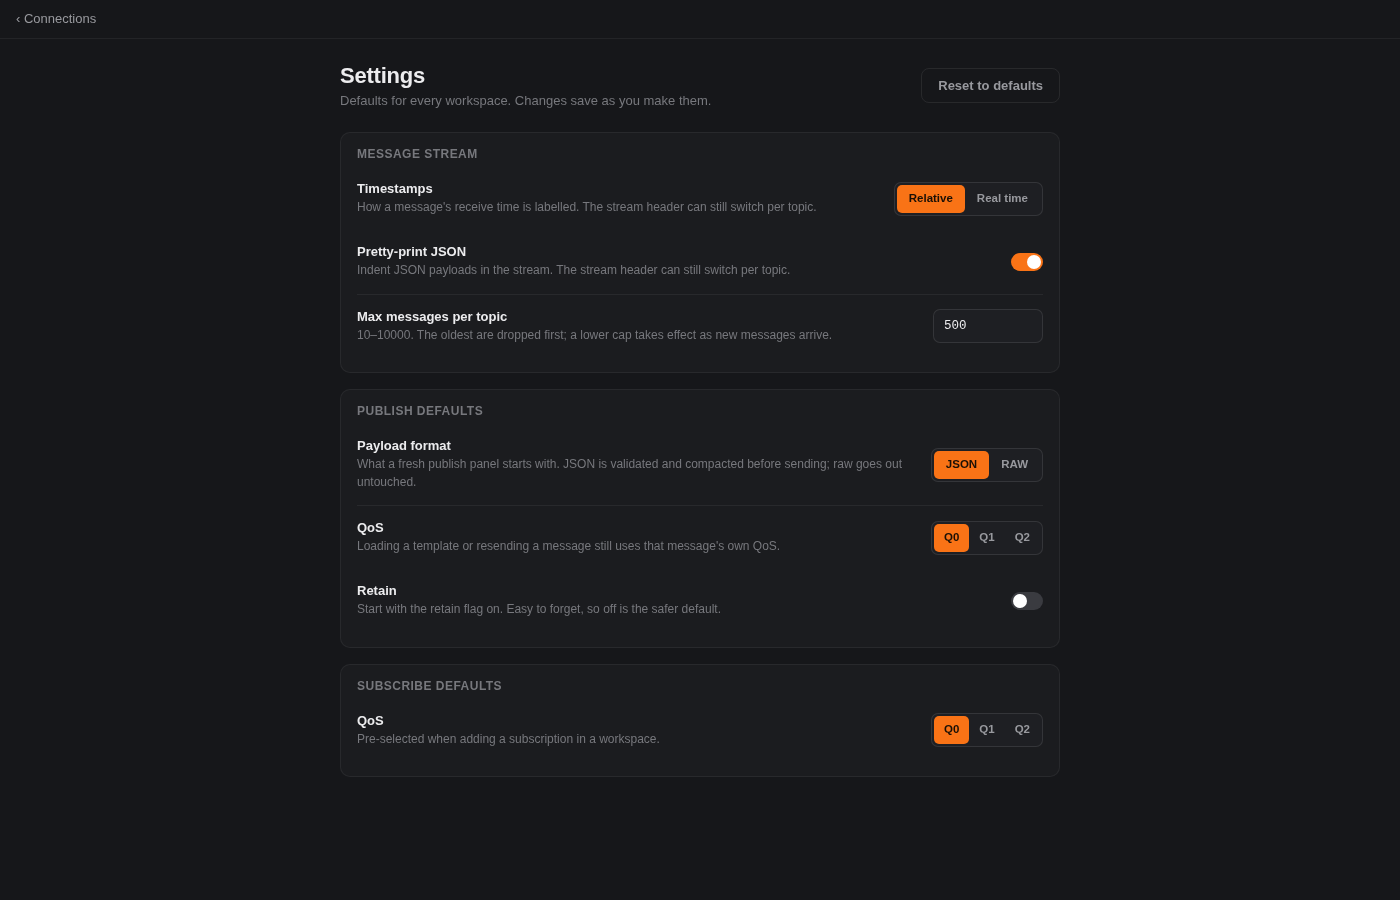
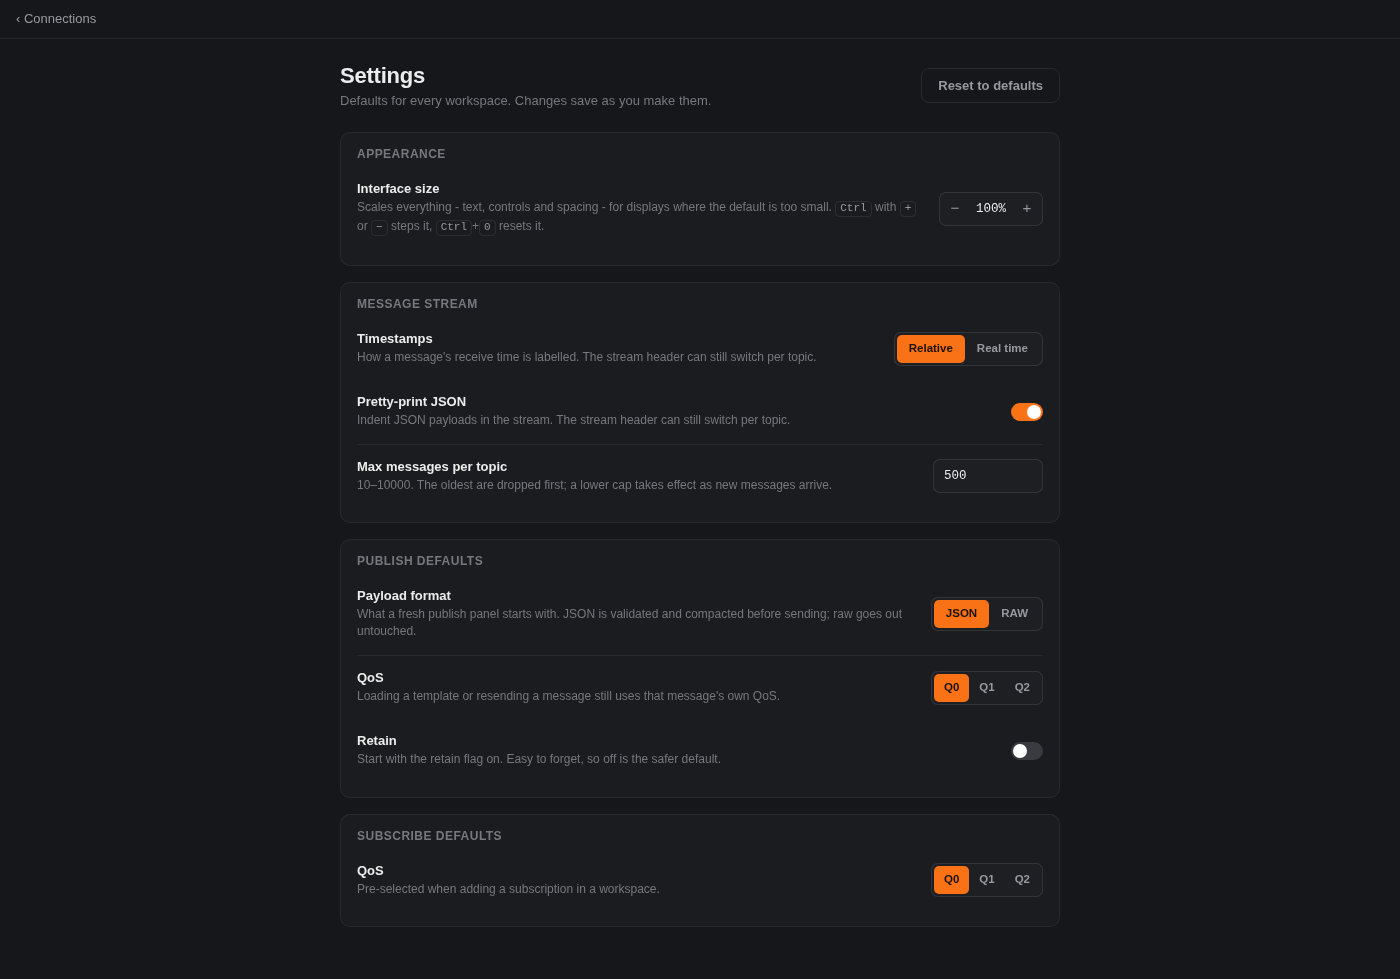
added docs

diff --git a/docs/architecture/frontend.md b/docs/architecture/frontend.md
@@ -58,8 +58,8 @@ Two consequences worth knowing before touching either side:
 
 Providers: `provideRouter`, `provideBrowserGlobalErrorListeners`,
 `GlobalErrorHandler` as the `ErrorHandler`, and an app initializer that
-instantiates `HeartbeatService` and `UpdateNotifierService` and kicks off
-`SettingsService.load()` without awaiting it. It must stay
+instantiates `HeartbeatService`, `UpdateNotifierService` and `UiZoomService`
+and kicks off `SettingsService.load()` without awaiting it. It must stay
 **`void`-returning**: `provideAppInitializer` waits on any promise handed
 back to it, which would put a network call (or a database read) in front of
 the first paint. Consumers run on the default settings until the load lands
@@ -96,6 +96,7 @@ Rust type and you must change its mirror here. `stored-message` and
 | `json-format.service` | Pretty-print, compact, and tokenize JSON for the payload editor's highlighting |
 | `variables.service` | CRUD over the `{{name}}` variable definitions, plus a loaded-once signal cache. The cache is the point: the publish panel validates and previews on every keystroke, which an `invoke()` per keystroke can't serve. The expansion logic itself is in the plain functions under `core/variables/` |
 | `settings.service` | The app-level settings as a signal read model over the backend's `app_settings` key/value store, loaded once at startup. The schema — keys, defaults, bounds, encoding — is the plain `core/settings/app-settings.ts`; the backend never interprets the values. Writes are optimistic so a change on the settings page re-seeds every consumer immediately |
+| `ui-zoom.service` | Holds the webview's zoom in step with the `ui.zoom` setting, and steps it for the Ctrl+`+`/`-`/`0` shortcuts. See below |
 | `logger.service` | Forwards to the Rust log file via `@tauri-apps/plugin-log` |
 | `update.service` | `invoke()` wrapper over `get_app_version` / `check_for_updates` / `skip_update_version` |
 | `update-notifier.service` | App-wide update state, and the one throttled check per launch. Its policy — silent vs. up-to-date vs. offer — lives in the plain `update-announcement.ts` next to it |
@@ -103,6 +104,25 @@ Rust type and you must change its mirror here. `stored-message` and
 
 Services are `providedIn: "root"` and injected with `inject()`, not
 constructor params.
+
+### `ui-zoom.service` — why zoom rather than a font size
+
+"Interface size" is the webview's own zoom (`setZoom`, the
+`core:webview:allow-set-webview-zoom` permission), not a CSS font scale.
+
+The workspace's geometry is not purely CSS: `DOCK_LIMITS`, `SPLITTER_PX` and
+`MIN_CENTRE_WIDTH` in `pages/broker-workspace/layout/dock-layout.ts` are
+JavaScript numbers, and the message stream measures and caches row heights to
+virtualise the list. Scaling only fonts would leave all of that at its
+original size — bigger text in unchanged docks, and mis-measured rows.
+Webview zoom scales the CSS pixel itself, so every one of those numbers keeps
+its meaning and the interface grows as one piece.
+
+The levels, the stepping and the snapping live in the plain
+`core/settings/zoom-levels.ts`; the keypress mapping in
+`core/settings/zoom-shortcut.ts`, bound once on `AppComponent` because zoom
+is app-wide. Applying it can fail — there is no webview in the demo build's
+plain browser — so the service logs and carries on rather than surfacing it.
 
 ### `message-store.service` — worth reading before touching the workspace
 

diff --git a/README.md b/README.md
@@ -65,9 +65,9 @@ It's built with [Tauri](https://tauri.app) (a Rust backend, SQLite for local sto
 </p>
 
 <p align="center">
-  <img src="docs/screenshots/settings.png" width="820" alt="Settings page with three groups: Message stream (a Relative / Real time timestamp selector, a pretty-print JSON switch and a max-messages-per-topic field), Publish defaults (JSON / RAW format, a Q0 / Q1 / Q2 QoS selector and a retain switch) and Subscribe defaults (QoS), plus a Reset to defaults button in the header">
+  <img src="docs/screenshots/settings.png" width="820" alt="Settings page with four groups: Appearance (an Interface size stepper showing 100%), Message stream (a Relative / Real time timestamp selector, a pretty-print JSON switch and a max-messages-per-topic field), Publish defaults (JSON / RAW format, a Q0 / Q1 / Q2 QoS selector and a retain switch) and Subscribe defaults (QoS), plus a Reset to defaults button in the header">
   <br>
-  <em>Settings — what every workspace starts with. Each control saves as you change it.</em>
+  <em>Settings — how big the interface is drawn, and what every workspace starts with. Each control saves as you change it.</em>
 </p>
 
 <p align="center">
@@ -114,6 +114,7 @@ It's built with [Tauri](https://tauri.app) (a Rust backend, SQLite for local sto
 9. **Get the space back** — those three header buttons show and hide the workspace's three docks (subscriptions on the left, publish along the bottom, tools on the right) independently, and every divider between them can be dragged.
 10. **Work on several brokers at once** — opening another broker adds a tab above the header instead of replacing what you had. Each tab keeps its own history, panel layout and publish draft, and a repeating publish keeps running while you're looking at another one. **Disconnect** ends the session and closes the tab.
 11. **Set your defaults** — **Settings** (on the Connections page, or the ⚙ at the end of the tab bar) holds what every workspace starts with: relative or wall-clock timestamps and pretty-printed JSON in the message stream, how many messages to keep per topic, and the format, QoS and retain flag a fresh publish panel opens with, plus the QoS for new subscriptions. Every control saves as you change it, and the per-topic toggles in a workspace still override for that session.
+12. **Make it bigger** — if the interface is too small on your display, **Interface size** at the top of Settings scales the whole thing — text, controls and spacing together — from 80% to 200%. <kbd>Ctrl</kbd> with <kbd>+</kbd> or <kbd>-</kbd> steps it from anywhere in the app and <kbd>Ctrl</kbd>+<kbd>0</kbd> puts it back to 100%, the same as in a browser.
 
 ## Download
 

diff --git a/docs/architecture/README.md b/docs/architecture/README.md
@@ -72,6 +72,7 @@ bme/
 | App startup, logging, window quirks | `src-tauri/src/lib.rs` |
 | Whether the app tells you a new version exists | `core/src/update/checker.rs`, then `src/app/core/services/update-notifier.service.ts` |
 | A user-facing app setting (the Settings page) | `src/app/core/settings/app-settings.ts` for the key/default/bounds, `src/app/pages/settings/` for the control; the backend is a pass-through |
+| How big the interface is drawn | `src/app/core/settings/zoom-levels.ts` for the steps, `src/app/core/services/ui-zoom.service.ts` for applying them — it is webview zoom, not a CSS font scale |
 | Internal app-level state (not per-connection, not user-facing) | `core/src/storage/app_settings_repo.rs`, with the key constants next to whatever owns the setting (e.g. `core/src/update/`) |
 | The README's screenshots, or the example data in them | `src/demo/demo-data.ts` for what's on screen, `scripts/screenshots.mjs` for the shot list — then `npm run screenshots` |
 

diff --git a/docs/architecture/data-flow.md b/docs/architecture/data-flow.md
@@ -168,7 +168,7 @@ expansion logic duplicated across the boundary, only the definition shape.
 The `app_settings` key strings are a contract too, just an internal one:
 renaming a key silently orphans whatever users had already saved under the
 old name. `update.skipped_version` and `update.last_checked_at` are defined
-in `core/src/update/mod.rs`; the user-facing settings (`stream.*`,
+in `core/src/update/mod.rs`; the user-facing settings (`ui.*`, `stream.*`,
 `store.*`, `publish.*`, `subscribe.*`) are `SETTING_KEYS` in
 `src/app/core/settings/app-settings.ts`, and only the frontend ever decodes
 those — `list_app_settings` hands back the whole table and the frontend
